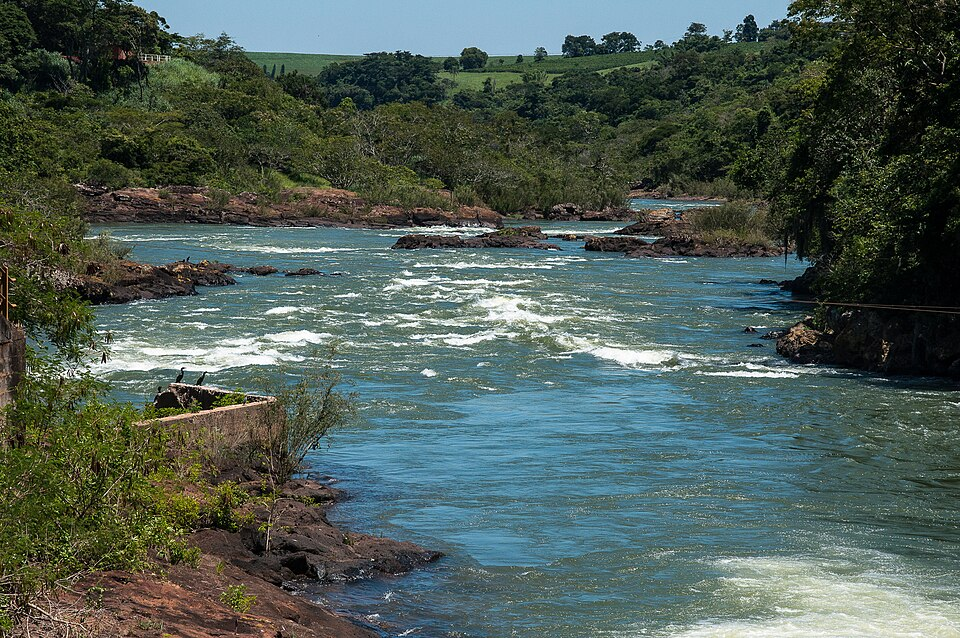
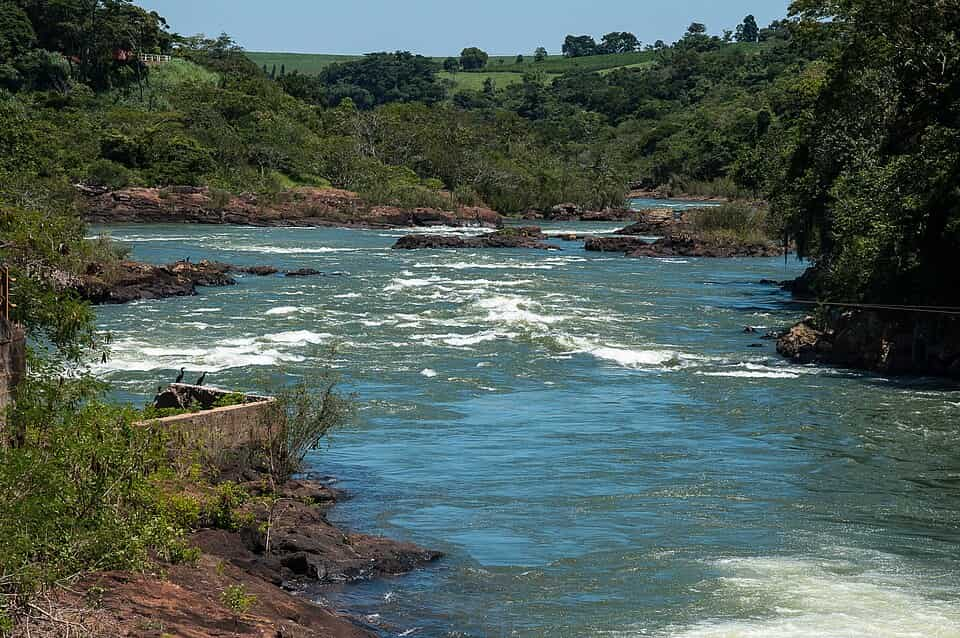
correçao 3

diff --git a/wwr/sobre.html b/wwr/sobre.html
@@ -90,12 +90,12 @@
             </figure>
             
             <figure>
-                <img src="imagens/corredeiras-do-Rio-paranapanema.jpg" alt="Corredeira do Rio Paranapanema">
+                <img src="imagens/corredeiras-do-rio-paranapanema.jpg" alt="Corredeira do Rio Paranapanema">
                 <figcaption>Corredeira do Rio Paranapanema</figcaption>
             </figure>
             
             <figure>
-                <img src="imagens/corredeira-do-Rio-Jacaré.jpg" alt="Corredeira do Rio Jacaré">
+                <img src="imagens/corredeira-do-rio-jacaré.jpg" alt="Corredeira do Rio Jacaré">
                 <figcaption>Corredeira do Rio Jacaré</figcaption>
             </figure>
             
@@ -105,7 +105,7 @@
             </figure>
             
             <figure>
-                <img src="imagens/cânion-azul.jpg.webp" alt="Cânion Azul">
+                <img src="imagens/cânion-azul.jpg" alt="Cânion Azul">
                 <figcaption>Cânion Azul</figcaption>
             </figure>
 
